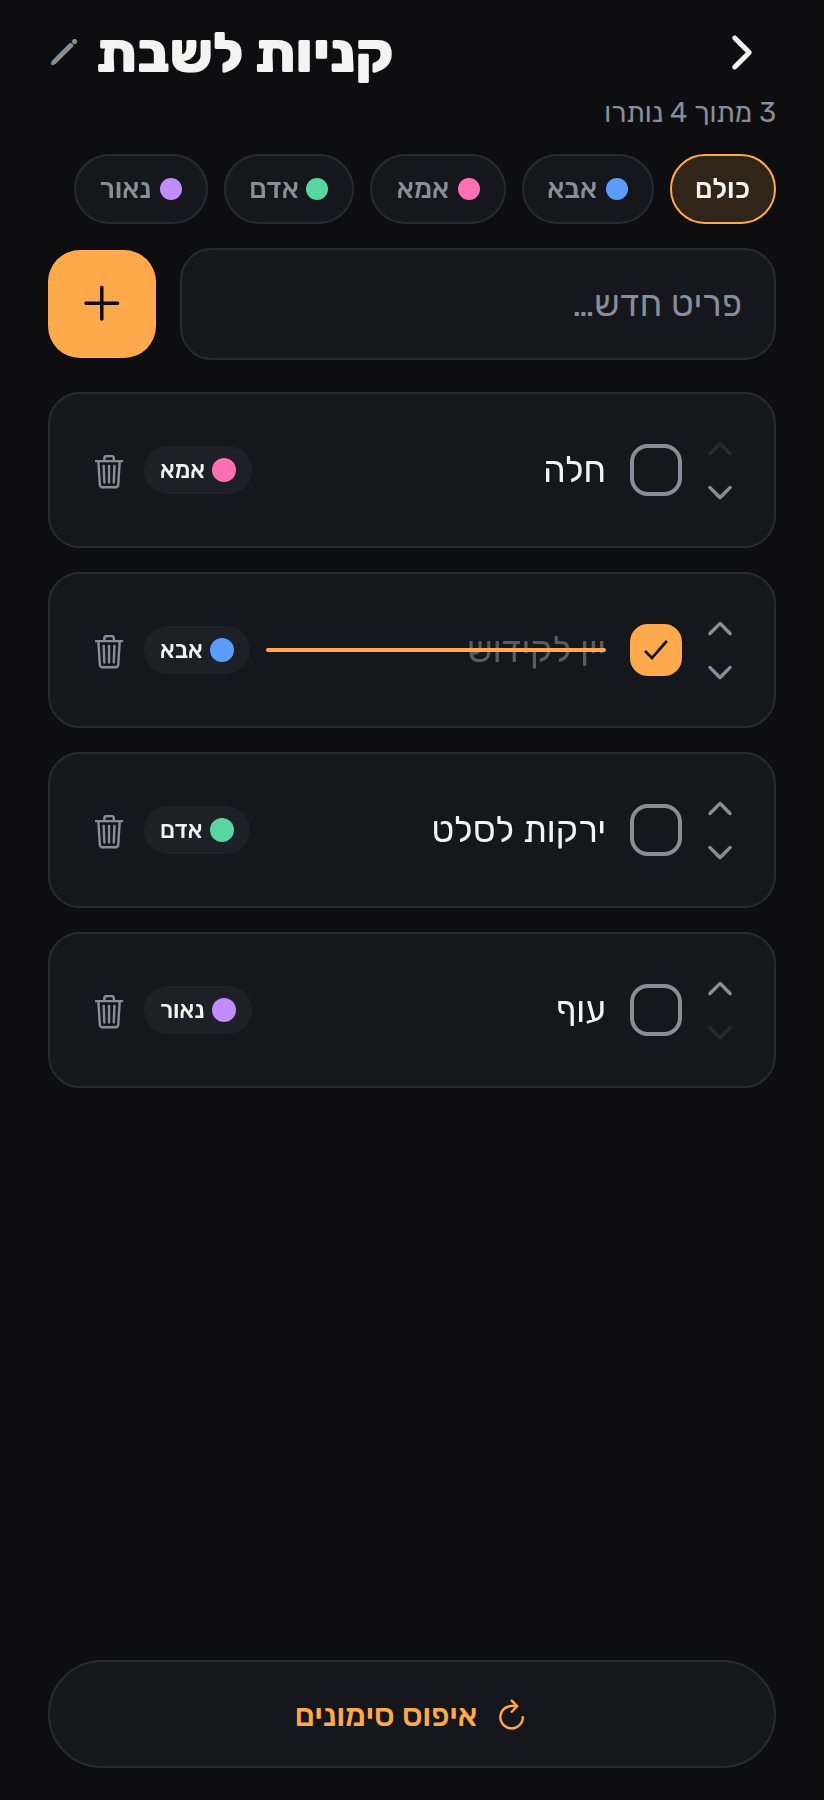
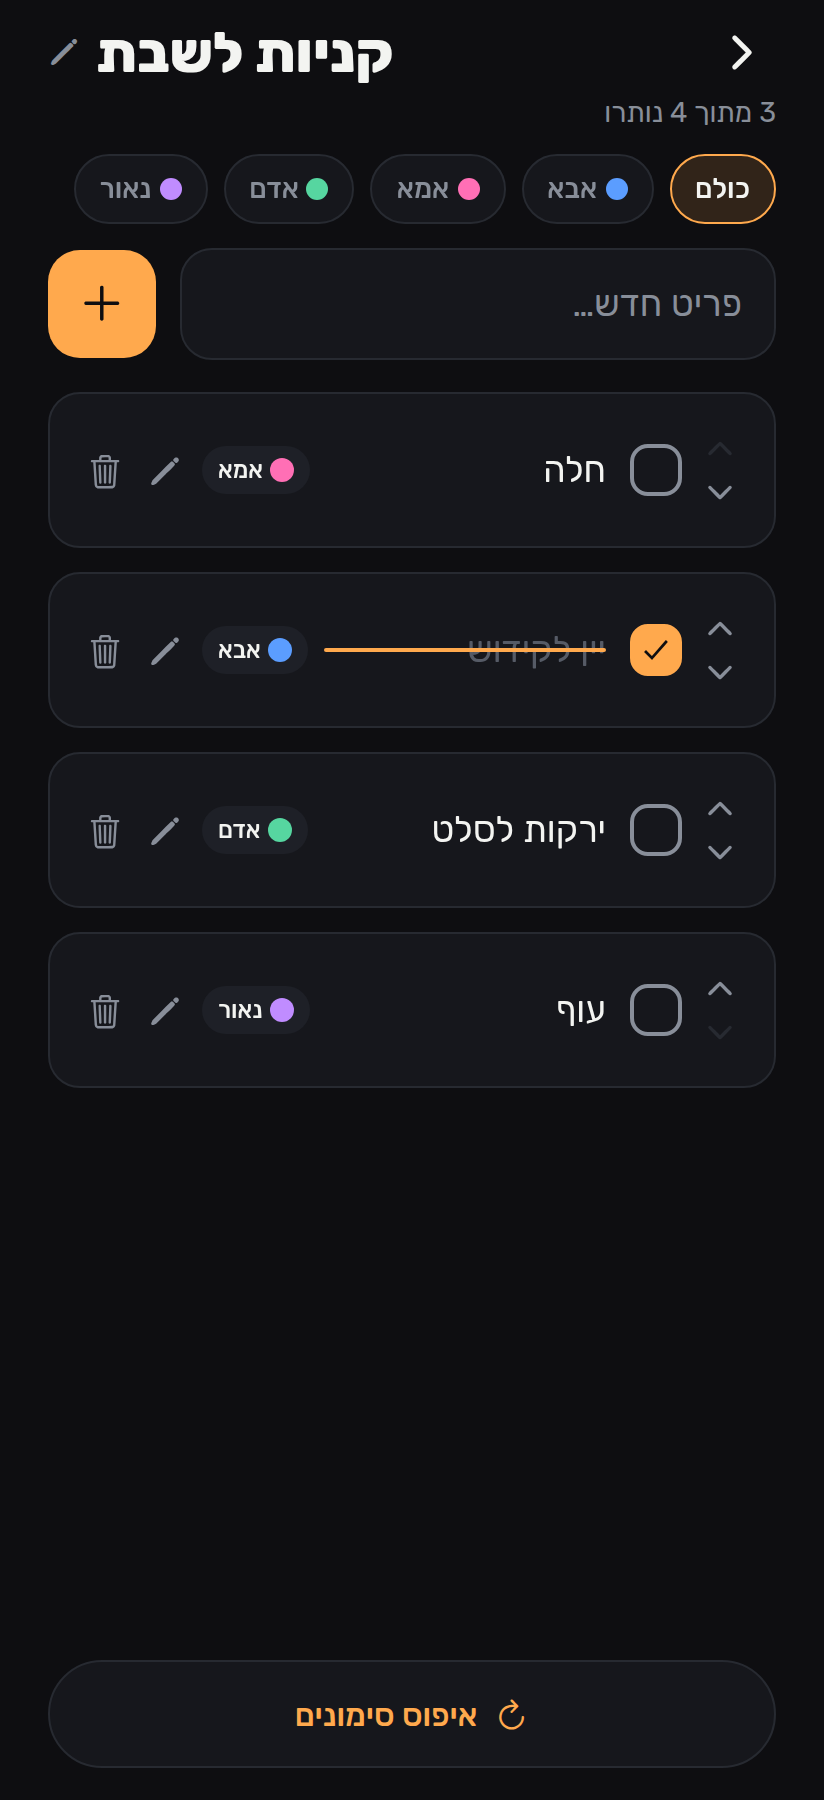
Add inline editing of item text + don't hang the UI when offline
- Each item gets a pencil button that turns the text into an editable field
  (saves on submit/blur); new store.editItemText syncs the change to Supabase
- loadStore no longer blocks on the network: it times out after 6s and falls
  back to the cached copy, then subscribes so realtime catches up — fixes a
  blank screen when Supabase is slow/unreachable

Claude-Session: https://claude.ai/code/session_01MgByf6vTVmTja9VpRD9kRm

diff --git a/checklist/src/components/ChecklistItem.tsx b/checklist/src/components/ChecklistItem.tsx
@@ -1,6 +1,6 @@
 import { Ionicons } from '@expo/vector-icons';
 import { memo, useEffect, useState } from 'react';
-import { Pressable, StyleSheet, Text, View } from 'react-native';
+import { Pressable, StyleSheet, Text, TextInput, View } from 'react-native';
 import Animated, {
   FadeIn,
   FadeOutLeft,
@@ -25,6 +25,7 @@ type Props = {
   onUp: (item: Item) => void;
   onDown: (item: Item) => void;
   onAssign: (item: Item) => void;
+  onEdit: (item: Item, text: string) => void;
 };
 
 function ChecklistItemBase({
@@ -36,8 +37,11 @@ function ChecklistItemBase({
   onUp,
   onDown,
   onAssign,
+  onEdit,
 }: Props) {
   const [textWidth, setTextWidth] = useState(0);
+  const [editing, setEditing] = useState(false);
+  const [draft, setDraft] = useState('');
   const progress = useSharedValue(item.is_done ? 1 : 0);
   const person = personById(item.assignee);
 
@@ -54,6 +58,16 @@ function ChecklistItemBase({
     color: progress.value > 0.5 ? colors.done : colors.text,
   }));
 
+  const startEdit = () => {
+    setDraft(item.text);
+    setEditing(true);
+  };
+  const saveEdit = () => {
+    const t = draft.trim();
+    if (t && t !== item.text) onEdit(item, t);
+    setEditing(false);
+  };
+
   return (
     <Animated.View
       entering={FadeIn.duration(240)}
@@ -68,42 +82,72 @@ function ChecklistItemBase({
         onDown={() => onDown(item)}
       />
 
-      <Pressable style={styles.main} onPress={() => onToggle(item)} hitSlop={4}>
-        <Checkbox done={item.is_done} />
-        <View style={styles.textWrap}>
-          <Animated.Text
-            style={[styles.text, textColorStyle]}
-            onLayout={(e) => setTextWidth(e.nativeEvent.layout.width)}
-          >
-            {item.text}
-          </Animated.Text>
-          <Animated.View style={[styles.strike, lineStyle]} pointerEvents="none" />
+      {editing ? (
+        <View style={styles.main}>
+          <Checkbox done={item.is_done} />
+          <TextInput
+            value={draft}
+            onChangeText={setDraft}
+            onSubmitEditing={saveEdit}
+            onBlur={saveEdit}
+            autoFocus
+            style={styles.editInput}
+            textAlign="right"
+            returnKeyType="done"
+          />
         </View>
-      </Pressable>
+      ) : (
+        <Pressable style={styles.main} onPress={() => onToggle(item)} hitSlop={4}>
+          <Checkbox done={item.is_done} />
+          <View style={styles.textWrap}>
+            <Animated.Text
+              style={[styles.text, textColorStyle]}
+              onLayout={(e) => setTextWidth(e.nativeEvent.layout.width)}
+            >
+              {item.text}
+            </Animated.Text>
+            <Animated.View style={[styles.strike, lineStyle]} pointerEvents="none" />
+          </View>
+        </Pressable>
+      )}
+
+      {!editing && (
+        <Pressable
+          onPress={() => onAssign(item)}
+          hitSlop={6}
+          style={({ pressed }) => [styles.chip, pressed && { opacity: 0.6 }]}
+          accessibilityLabel="שיוך אחראי"
+        >
+          <View
+            style={[styles.chipDot, person ? { backgroundColor: person.color } : styles.chipDotNone]}
+          />
+          {person && <Text style={styles.chipLabel}>{person.label}</Text>}
+        </Pressable>
+      )}
 
       <Pressable
-        onPress={() => onAssign(item)}
-        hitSlop={6}
-        style={({ pressed }) => [styles.chip, pressed && { opacity: 0.6 }]}
-        accessibilityLabel="שיוך אחראי"
-      >
-        <View
-          style={[
-            styles.chipDot,
-            person ? { backgroundColor: person.color } : styles.chipDotNone,
-          ]}
-        />
-        {person && <Text style={styles.chipLabel}>{person.label}</Text>}
-      </Pressable>
-
-      <Pressable
-        style={({ pressed }) => [styles.trash, pressed && { opacity: 0.5 }]}
-        onPress={() => onDelete(item)}
+        style={({ pressed }) => [styles.iconBtn, pressed && { opacity: 0.5 }]}
+        onPress={editing ? saveEdit : startEdit}
         hitSlop={8}
-        accessibilityLabel="מחק פריט"
+        accessibilityLabel={editing ? 'שמירה' : 'עריכת פריט'}
       >
-        <Ionicons name="trash-outline" size={19} color={colors.textMuted} />
+        <Ionicons
+          name={editing ? 'checkmark' : 'pencil'}
+          size={editing ? 22 : 17}
+          color={editing ? colors.accent : colors.textMuted}
+        />
       </Pressable>
+
+      {!editing && (
+        <Pressable
+          style={({ pressed }) => [styles.iconBtn, pressed && { opacity: 0.5 }]}
+          onPress={() => onDelete(item)}
+          hitSlop={8}
+          accessibilityLabel="מחק פריט"
+        >
+          <Ionicons name="trash-outline" size={19} color={colors.textMuted} />
+        </Pressable>
+      )}
     </Animated.View>
   );
 }
@@ -136,6 +180,16 @@ const styles = StyleSheet.create({
     writingDirection: 'rtl',
     textAlign: 'right',
   },
+  editInput: {
+    flex: 1,
+    fontFamily: fonts.body,
+    fontSize: 18,
+    color: colors.text,
+    writingDirection: 'rtl',
+    paddingVertical: 2,
+    borderBottomWidth: 2,
+    borderBottomColor: colors.accent,
+  },
   strike: {
     position: 'absolute',
     start: 0,
@@ -155,7 +209,7 @@ const styles = StyleSheet.create({
   chipDot: { width: 12, height: 12, borderRadius: 6 },
   chipDotNone: { borderWidth: 2, borderColor: colors.textMuted },
   chipLabel: { fontFamily: fonts.semibold, fontSize: 12, color: colors.text },
-  trash: { paddingStart: spacing.xs, paddingVertical: spacing.xs },
+  iconBtn: { paddingHorizontal: 2, paddingVertical: spacing.xs },
 });
 
 export const ChecklistItem = memo(ChecklistItemBase);

diff --git a/checklist/src/lib/store.ts b/checklist/src/lib/store.ts
@@ -60,12 +60,33 @@ function push(run: () => unknown) {
 
 // ---- loading / subscription ----------------------------------------------
 
+function withTimeout<T>(p: Promise<T>, ms: number): Promise<T> {
+  return Promise.race([
+    p,
+    new Promise<T>((_, reject) => setTimeout(() => reject(new Error('timeout')), ms)),
+  ]);
+}
+
+async function loadCache() {
+  try {
+    const raw = await AsyncStorage.getItem(KEY);
+    if (raw) state = JSON.parse(raw);
+  } catch {
+    /* ignore */
+  }
+}
+
 export async function loadStore() {
   if (isConfigured) {
+    // Try the cloud, but never block the UI on it: if it's slow/unreachable we
+    // show the cached copy and let the realtime subscription catch us up.
     try {
-      state = await remote.fetchAll();
+      state = await withTimeout(remote.fetchAll(), 6000);
       persist();
-      // Any change on any device → refetch so all phones converge.
+    } catch {
+      await loadCache();
+    }
+    try {
       remote.subscribe(async () => {
         try {
           state = await remote.fetchAll();
@@ -75,20 +96,21 @@ export async function loadStore() {
           /* keep showing the last good state */
         }
       });
-      loaded = true;
-      emit();
-      return;
     } catch {
-      // Unreachable (offline) — fall back to the cached copy below.
+      /* ignore */
     }
+    loaded = true;
+    emit();
+    return;
   }
 
+  // Local-only: load the cache, or seed a friendly starter list on first run.
   try {
     const raw = await AsyncStorage.getItem(KEY);
     if (raw) {
       state = JSON.parse(raw);
-    } else if (!isConfigured) {
-      state = seed(); // first run, local-only: a friendly starter list
+    } else {
+      state = seed();
       persist();
     }
   } catch {
@@ -175,6 +197,17 @@ export function addItem(listId: string, text: string, assignee: PersonId | null 
 export function deleteItem(id: string) {
   commit({ ...state, items: state.items.filter((i) => i.id !== id) });
   push(() => remote.deleteItem(id));
+}
+
+export function editItemText(id: string, text: string) {
+  const trimmed = text.trim();
+  if (!trimmed) return;
+  const at = now();
+  commit({
+    ...state,
+    items: state.items.map((i) => (i.id === id ? { ...i, text: trimmed, updated_at: at } : i)),
+  });
+  push(() => remote.updateItem(id, { text: trimmed, updated_at: at }));
 }
 
 export function setAssignee(id: string, assignee: PersonId | null) {

diff --git a/checklist/src/app/list/[id].tsx b/checklist/src/app/list/[id].tsx
@@ -19,6 +19,7 @@ import { PEOPLE, type FilterId } from '../../lib/people';
 import {
   addItem,
   deleteItem,
+  editItemText,
   getList,
   moveItem,
   renameList,
@@ -168,6 +169,7 @@ export default function ListScreen() {
             onUp={(it: Item) => moveItem(it.id, -1)}
             onDown={(it: Item) => moveItem(it.id, 1)}
             onAssign={(it: Item) => setPickerItem(it)}
+            onEdit={(it: Item, t: string) => editItemText(it.id, t)}
           />
         )}
         ListEmptyComponent={
